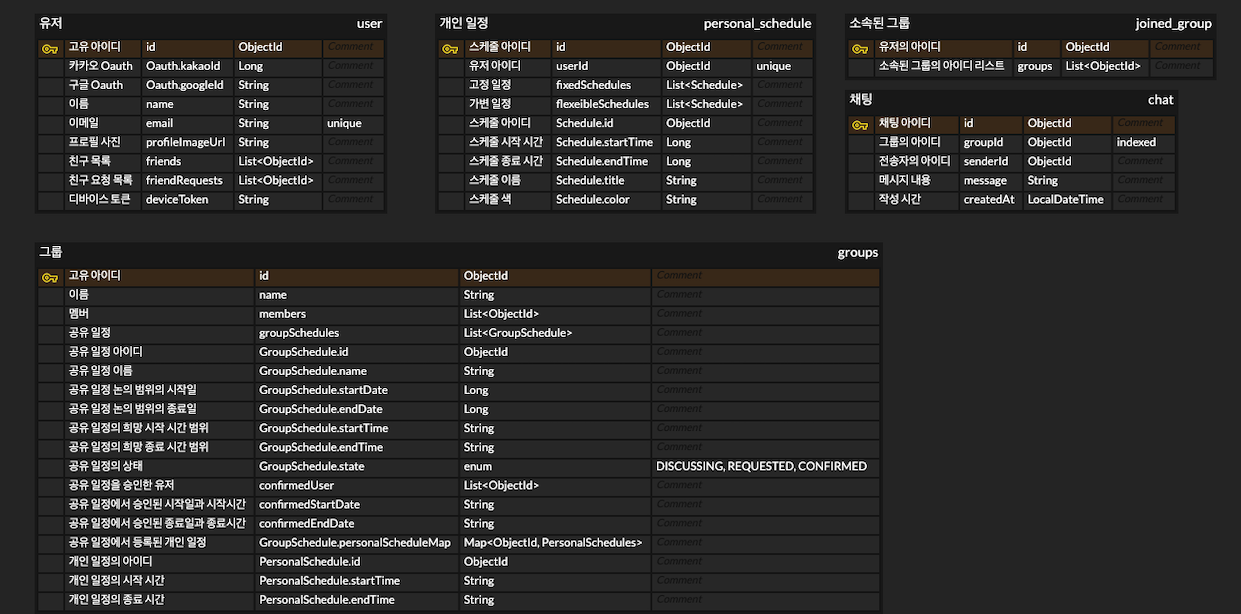
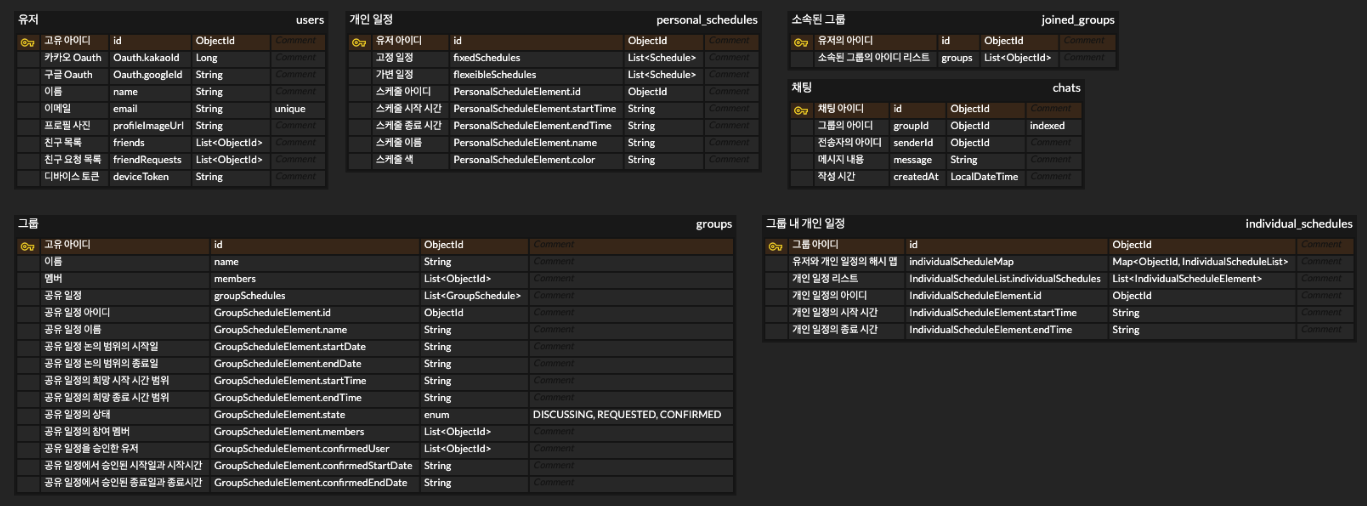
DOCS: update readme

diff --git a/README.md b/README.md
@@ -42,12 +42,21 @@
 <img src="https://img.shields.io/badge/swagger-85EA2D?style=for-the-badge&logo=swagger&logoColor=white" alt="SWAGGER">
 
 ---
-### 데이터베이스 설계(2025.01.05)
+### 데이터베이스 설계(2025.01.21)
 ##### MongoDB
 ![](image/database.png)
 
 ---
 ### 기록
+##### 스프린트 11 (model module 리펙토링)
+기간: 2025.01.07-2025.01.15
+
+![](image/스프린트11.png)
+
+- model module 리펙토링
+
+<br>
+
 ##### 스프린트 10 (security module 리펙토링)
 기간: 2025.01.05-2025.01.05
 
